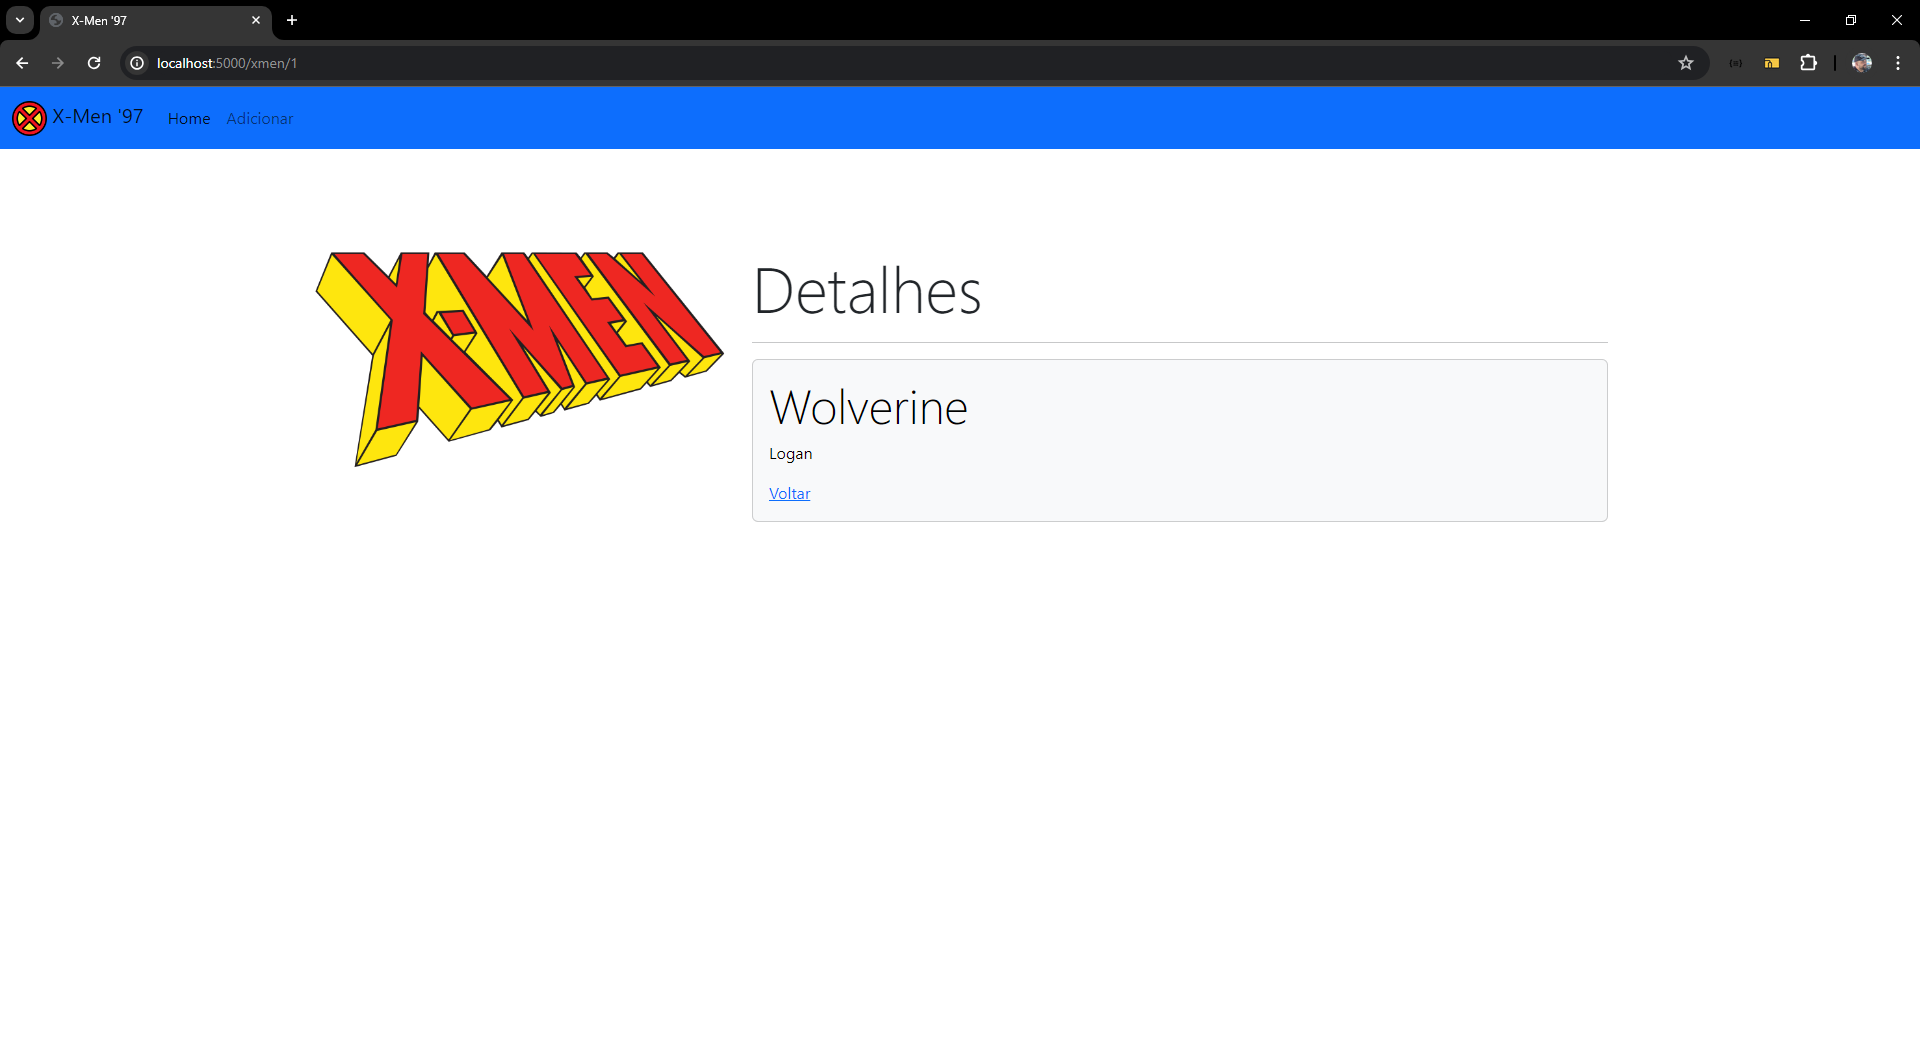
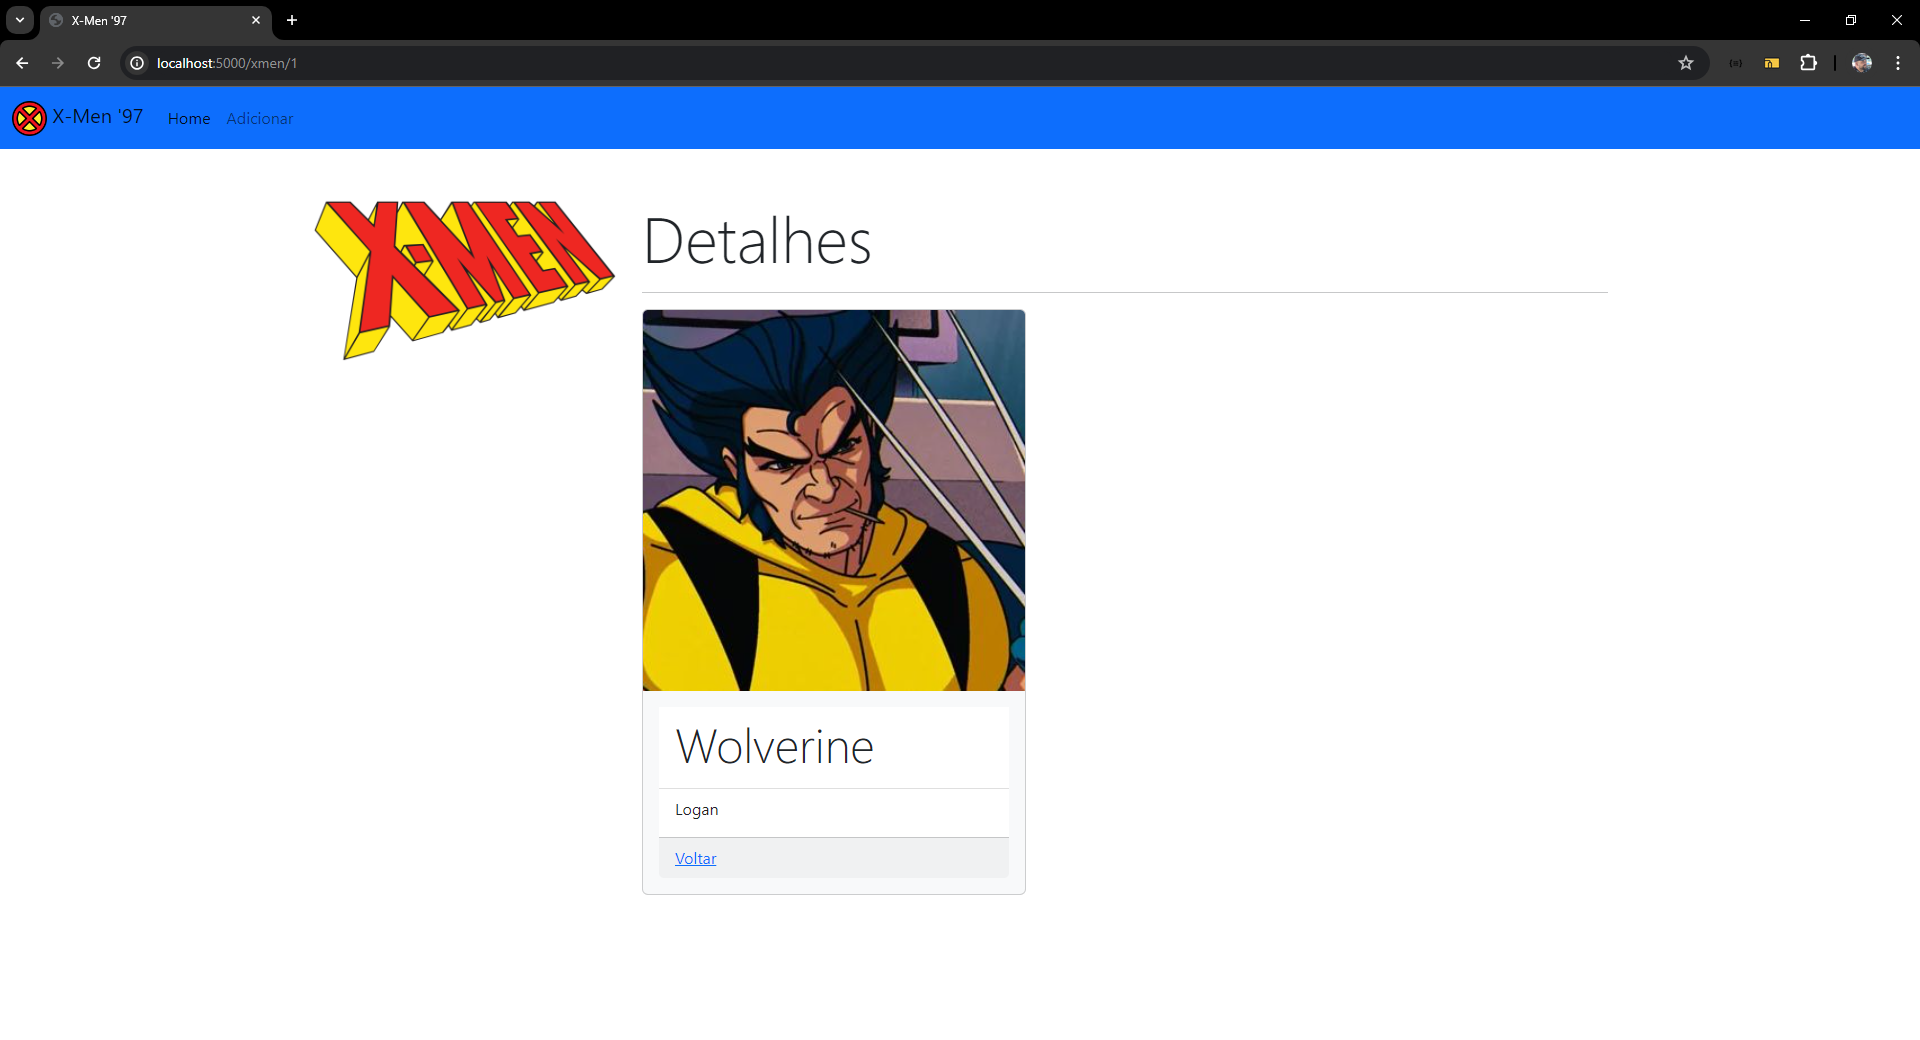
Upload de imagem

Changed region(s): [[0.1562, 0.1846, 0.5625, 0.6769], [0.3438, 0.7077, 0.4688, 0.7385], [0.3438, 0.7692, 0.375, 0.8308]]

diff --git a/templates/novo.html b/templates/novo.html
@@ -2,7 +2,7 @@
 {% block content %}
 <h1 class="display-3">Adicionar mutante</h1>
 <hr />
-<form action='' method="POST" enctype="multipart/form-data">
+<form action="" method="POST" enctype="multipart/form-data">
    <div class="row">
       <label for="imagem" class="col-sm-2 col-form-label col-form-label-lg">Imagem</label>
       <div class="col-sm-6">
@@ -11,9 +11,9 @@
    </div>
    <br />
    <div class="row">
-      <label for="mutante_id" class="col-sm-2 col-form-label col-form-label-lg">Mutante ID</label>
+      <label for="codinome" class="col-sm-2 col-form-label col-form-label-lg">Codinome</label>
       <div class="col-sm-6">
-         <input type="text" class="form-control form-control-lg" id="mutante_id" placeholder="ID"  name="mutante_id">
+         <input type="text" class="form-control form-control-lg" id="codinome" placeholder="Codinome"  name="codinome">
       </div>
    </div>
    <br />
@@ -24,12 +24,6 @@
       </div>
    </div>
    <br />
-   <div class="row">
-      <label for="codinome" class="col-sm-2 col-form-label col-form-label-lg">Codinome</label>
-      <div class="col-sm-6">
-         <input type="text" class="form-control form-control-lg" id="codinome" placeholder="Codinome"  name="codinome">
-      </div>
-   </div>
    <p><button type="submit" class="btn btn-primary btn-lg">Salvar</button></p>
 </form>
 {% endblock %}

diff --git a/templates/edita.html b/templates/edita.html
@@ -2,11 +2,18 @@
 {% block content %}
 <h1 class="display-3">Editar mutante</h1>
 <hr />
-<form action='' method="POST">
+<form action="" method="POST">
    <div class="row">
       <label for="imagem" class="col-sm-2 col-form-label col-form-label-lg">Imagem</label>
       <div class="col-sm-6">
          <input class="form-control form-control-lg" id="imagem" type="file" name="imagem" accept=".jpg, .jpeg, .png" value="{{mutante.imagem}}">
+      </div>
+   </div>
+   <br />
+   <div class="row">
+      <label for="codinome" class="col-sm-2 col-form-label col-form-label-lg">Codinome</label>
+      <div class="col-sm-6">
+         <input type="text" class="form-control form-control-lg" id="codinome" placeholder="Codinome"  name="codinome" value="{{mutante.codinome}}">
       </div>
    </div>
    <br />
@@ -17,12 +24,6 @@
       </div>
    </div>
    <br />
-   <div class="row">
-      <label for="codinome" class="col-sm-2 col-form-label col-form-label-lg">Codinome</label>
-      <div class="col-sm-6">
-         <input type="text" class="form-control form-control-lg" id="codinome" placeholder="Codinome"  name="codinome" value="{{mutante.codinome}}">
-      </div>
-   </div>
    <p><button type="submit" class="btn btn-primary btn-lg">Salvar</button></p>
 </form>
 {% endblock %}

diff --git a/templates/lista.html b/templates/lista.html
@@ -16,11 +16,11 @@
    <tbody>
       {% for mutante in mutantes %}
       <tr>
-         <td><img src="{{url_for('static', filename='uploads/'+mutante.imagem)}}" width="50" height="50" class="rounded-circle shadow-4-strong"></td>
-         <td><a href="/xmen/{{mutante.mutante_id}}">{{mutante.codinome}}</a></td>
+         <td><img src="{{url_for('static', filename='uploads/'+mutante.imagem)}}" width="70" height="70" class="rounded-circle shadow-4-strong"></td>
+         <td><a href="/xmen/{{mutante.id}}">{{mutante.codinome}}</a></td>
          <td>{{mutante.nome}}</td>
-         <td><a href="/xmen/{{mutante.mutante_id}}/update">Editar</a></td>
-         <td><a href="/xmen/{{mutante.mutante_id}}/delete">Excluir</a></td>
+         <td><a href="/xmen/{{mutante.id}}/edit">Editar</a></td>
+         <td><a href="/xmen/{{mutante.id}}/delete">Excluir</a></td>
       </tr>
       {% endfor %}
    </tbody>

diff --git a/templates/base.html b/templates/base.html
@@ -22,7 +22,7 @@
                      <a class="nav-link active" aria-current="page" href="/xmen">Home</a>
                   </li>
                   <li class="nav-item">
-                     <a class="nav-link" href="/xmen/create">Adicionar</a>
+                     <a class="nav-link" href="/xmen/add">Adicionar</a>
                   </li>
                </ul>
             </div>
@@ -30,7 +30,7 @@
       </nav>
    </header>
    <body>
-      <div class="container" style="margin-top: 80px;">
+      <div class="container" style="margin-top: 50px;">
          <div class="row">
             <div class="col-3"><img src="{{ url_for('static', filename='logo.png') }}" alt="X-Men" width="500" class="img-fluid mx-auto d-block" /></div>
             <div class="col-9">{% block content %} {% endblock %}</div>

diff --git a/templates/deleta.html b/templates/deleta.html
@@ -2,8 +2,8 @@
 {% block content %}
 <h1 class="display-3">Confirme a exclusão</h1>
 <hr />
-<form action='' method="post">
-   <p class="lead">Tem certeza que deseja excluir?</p>
+<form action="" method="post">
+   <p class="lead">Deseja excluir o(a) mutante <b>{{mutante.codinome}}</b>?</p>
    <div class="d-grid gap-2 d-md-block">
       <button type="submit" class="btn btn-danger" role="button">Sim</a></button>
       <a href="/xmen" class="btn btn-success" role="button">Não</a>

diff --git a/app.py b/app.py
@@ -1,0 +1,74 @@
+import os
+import uuid
+from flask import Flask, render_template, request, redirect, url_for
+from sqlalchemy import create_engine
+from sqlalchemy.orm import sessionmaker
+from database_config import Base, Mutante
+
+app=Flask(__name__)
+app.config["UPLOAD_FOLDER"] = "static/uploads"
+
+engine = create_engine('sqlite:///database/xmen97.db')
+
+Base.metadata.bind = engine
+
+DBSession = sessionmaker(bind=engine)
+session = DBSession()
+
+#Function to list
+@app.route('/')
+@app.route('/xmen')
+def list():
+   mutantes = session.query(Mutante).all()
+   return render_template("lista.html", mutantes=mutantes)
+
+#Function to add
+@app.route('/xmen/add',methods=['GET','POST'])
+def add():
+   if request.method == 'POST':
+       imagem = uuid.uuid4().hex +'.'+ request.files['imagem'].filename.rsplit('.', 1)[1].lower()
+       request.files['imagem'].save(os.path.join(app.config['UPLOAD_FOLDER'], imagem))
+       novo_mutante = Mutante(nome = request.form['nome'], codinome = request.form['codinome'], imagem = imagem)
+       session.add(novo_mutante)
+       session.commit()
+       return redirect(url_for('list'))
+   else:
+       return render_template('novo.html')
+
+#Function to edit
+@app.route("/xmen/<int:mutante_id>/edit", methods = ['GET', 'POST'])
+def update(mutante_id):
+   edita_mutante = session.query(Mutante).filter_by(id=mutante_id).one()
+   if request.method == 'POST':
+       if edita_mutante:
+           edita_mutante.nome = request.form['nome']
+           edita_mutante.codinome = request.form['codinome']
+           imagem = uuid.uuid4().hex +'.'+ request.files['imagem'].filename.rsplit('.', 1)[1].lower()
+           request.files['imagem'].save(os.path.join(app.config['UPLOAD_FOLDER'], imagem))
+           edita_mutante.imagem = request.form['imagem']
+           return redirect(url_for('list'))
+   else:
+       return render_template('edita.html', mutante = edita_mutante)
+   
+#Function to detail   
+@app.route("/xmen/<int:mutante_id>")
+def detail(mutante_id):
+    info_mutante = session.query(Mutante).filter_by(id=mutante_id).one()
+    if info_mutante:
+        return render_template("detalhe.html", mutante=info_mutante)
+    else:
+        return redirect(url_for('list'))
+
+#Function to delete
+@app.route('/xmen/<int:mutante_id>/delete', methods = ['GET','POST'])
+def delete(mutante_id):
+   deleta_mutante = session.query(Mutante).filter_by(id=mutante_id).one()
+   if request.method == 'POST':
+       session.delete(deleta_mutante)
+       session.commit()
+       return redirect(url_for('list', mutante_id=mutante_id))
+   else:
+       return render_template('deleta.html',mutante = deleta_mutante)
+
+if __name__ == '__main__':
+   app.run()

diff --git a/database_config.py b/database_config.py
@@ -1,0 +1,16 @@
+from sqlalchemy import Column, ForeignKey, Integer, String
+from sqlalchemy.ext.declarative import declarative_base
+from sqlalchemy import create_engine
+
+Base = declarative_base()
+
+class Mutante(Base):
+   __tablename__ = 'mutantes'
+   id = Column(Integer, primary_key=True)
+   nome = Column(String(250))
+   codinome = Column(String(250))
+   imagem = Column(String(250))
+
+engine = create_engine('sqlite:///database/xmen97.db')
+
+Base.metadata.create_all(engine)

diff --git a/README.md b/README.md
@@ -1,9 +1,6 @@
 # web-python-flask
 Projeto Web utilizando Python com Flask e SQLite.
 
+
 ## Screenshots
-<img src="https://github.com/rlhorochovec/web-python-flask/blob/develop/screenshots/lista.PNG" width="400" /> <img src="https://github.com/rlhorochovec/web-python-flask/blob/develop/screenshots/adicionar.PNG" width="400" /> <img src="https://github.com/rlhorochovec/web-python-flask/blob/develop/screenshots/detalhes.PNG" width="400" /> <img src="https://github.com/rlhorochovec/web-python-flask/blob/develop/screenshots/editar.PNG" width="400" />
-
-## Vídeos dos testes automatizados
-https://github.com/rlhorochovec/web-python-flask/assets/6693610/9314f146-3d30-4052-97d5-4f1c2edcb358
-
+<img src="https://github.com/rlhorochovec/web-python-flask/blob/develop/screenshots/lista.png" width="400" /> <img src="https://github.com/rlhorochovec/web-python-flask/blob/develop/screenshots/detalhes.png" width="400" /> <img src="https://github.com/rlhorochovec/web-python-flask/blob/develop/screenshots/novo.png" width="400" /> <img src="https://github.com/rlhorochovec/web-python-flask/blob/develop/screenshots/editar.png" width="400" /> <img src="https://github.com/rlhorochovec/web-python-flask/blob/develop/screenshots/excluir.png" width="400" />
